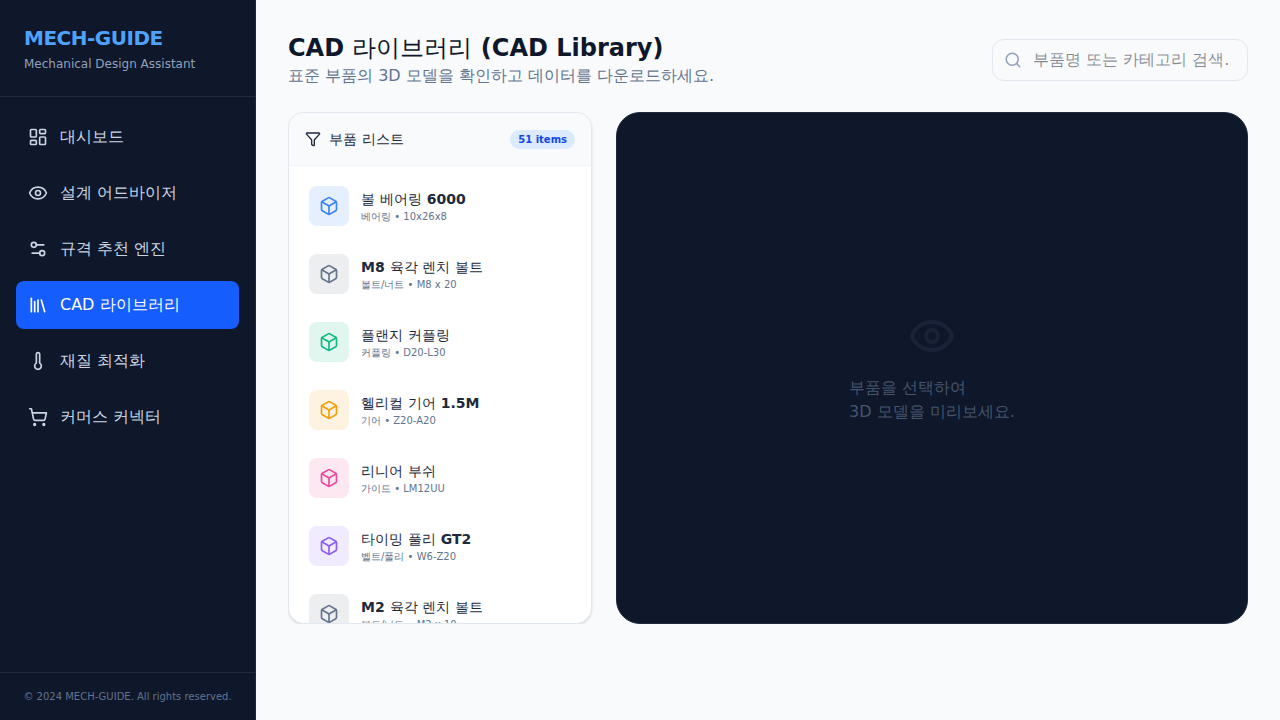
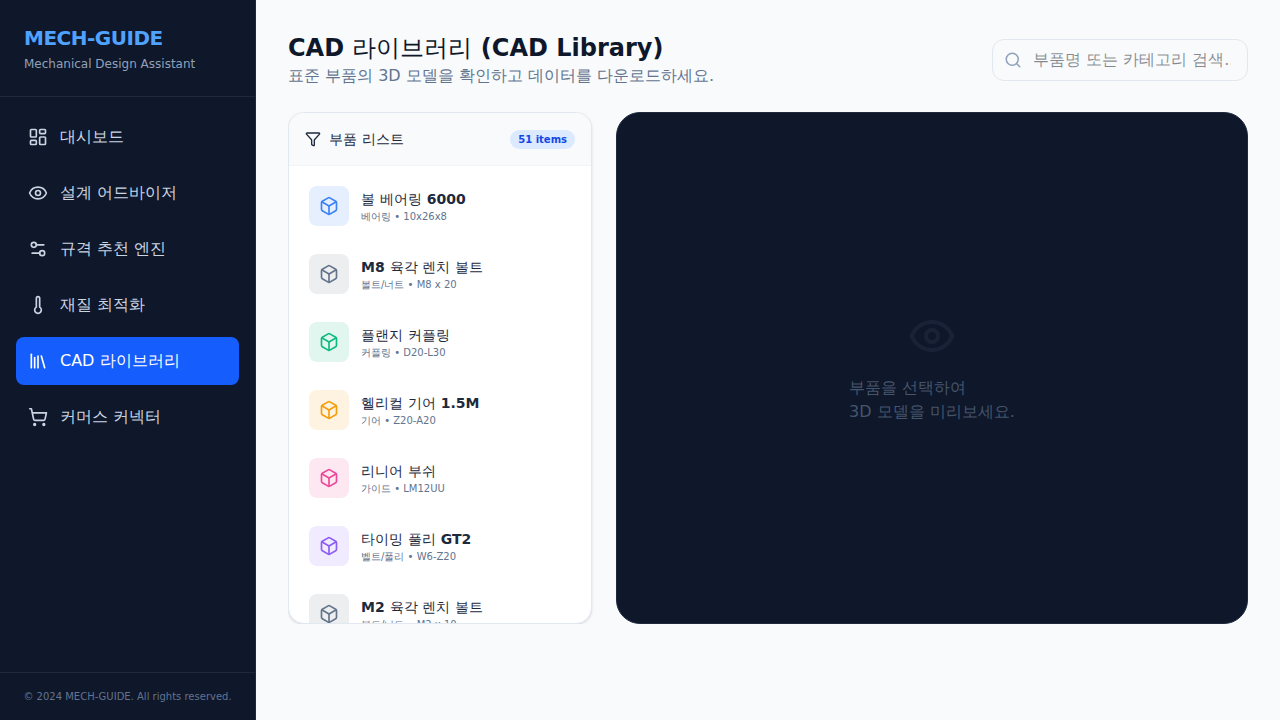
feat: add quantity adjustment and reorder sidebar
- Add `updateQuantity` to `CartContext`
- Update `CommerceConnector` UI to include +/- buttons for quantity adjustment
- Adjust sidebar navigation order to match user request
- Fix quantity text color visibility

Changed region(s): [[0.0, 0.3667, 0.1875, 0.55]]

diff --git a/src/pages/CommerceConnector.tsx b/src/pages/CommerceConnector.tsx
@@ -1,10 +1,10 @@
 import React, { useState } from 'react';
-import { ExternalLink, Package, ArrowRight, Search, Trash2 } from 'lucide-react';
+import { ExternalLink, Package, ArrowRight, Search, Trash2, Plus, Minus } from 'lucide-react';
 import { useCart } from '../context/CartContext';
 
 const CommerceConnector: React.FC = () => {
   const [searchQuery, setSearchQuery] = useState('');
-  const { cartItems, addToCart, removeFromCart } = useCart();
+  const { cartItems, addToCart, removeFromCart, updateQuantity } = useCart();
 
   const allParts = [
     { id: 1, name: '볼 베어링 6000', spec: '10x26x8', qty: 4, price: 1200, supplier: '한국미스미' },
@@ -97,9 +97,26 @@ const CommerceConnector: React.FC = () => {
                     </div>
                   </div>
                   <div className="flex items-center space-x-4">
-                    <div className="text-right">
+                    <div className="flex items-center space-x-2 mr-4 bg-slate-50 border border-slate-200 rounded-lg p-1">
+                      <button
+                        onClick={() => updateQuantity(item.id, item.qty - 1)}
+                        className="p-1 text-slate-400 hover:text-slate-700 hover:bg-slate-200 rounded transition-colors"
+                        aria-label="감소"
+                        disabled={item.qty <= 1}
+                      >
+                        <Minus size={14} />
+                      </button>
+                      <span className="text-sm font-medium w-6 text-center text-slate-900">{item.qty}</span>
+                      <button
+                        onClick={() => updateQuantity(item.id, item.qty + 1)}
+                        className="p-1 text-slate-400 hover:text-slate-700 hover:bg-slate-200 rounded transition-colors"
+                        aria-label="증가"
+                      >
+                        <Plus size={14} />
+                      </button>
+                    </div>
+                    <div className="text-right w-24">
                       <p className="text-sm font-bold text-slate-900">₩{(item.price * item.qty).toLocaleString()}</p>
-                      <p className="text-xs text-slate-400">수량: {item.qty}</p>
                     </div>
                     <button
                       onClick={() => removeFromCart(item.id)}

diff --git a/src/context/CartContext.tsx b/src/context/CartContext.tsx
@@ -14,6 +14,7 @@ interface CartContextType {
   cartItems: Part[];
   addToCart: (part: Part) => void;
   removeFromCart: (id: number) => void;
+  updateQuantity: (id: number, quantity: number) => void;
 }
 
 const CartContext = createContext<CartContextType | undefined>(undefined);
@@ -41,8 +42,14 @@ export const CartProvider: React.FC<{ children: ReactNode }> = ({ children }) =>
     setCartItems(prev => prev.filter(item => item.id !== id));
   };
 
+  const updateQuantity = (id: number, quantity: number) => {
+    setCartItems(prev => prev.map(item =>
+      item.id === id ? { ...item, qty: Math.max(1, quantity) } : item
+    ));
+  };
+
   return (
-    <CartContext.Provider value={{ cartItems, addToCart, removeFromCart }}>
+    <CartContext.Provider value={{ cartItems, addToCart, removeFromCart, updateQuantity }}>
       {children}
     </CartContext.Provider>
   );

diff --git a/src/components/Sidebar.tsx b/src/components/Sidebar.tsx
@@ -14,8 +14,8 @@ const Sidebar: React.FC = () => {
     { to: '/', icon: <LayoutDashboard size={20} />, label: '대시보드' },
     { to: '/visual-advisor', icon: <Eye size={20} />, label: '설계 어드바이저' },
     { to: '/selection-engine', icon: <Settings2 size={20} />, label: '규격 추천 엔진' },
-    { to: '/cad-library', icon: <Library size={20} />, label: 'CAD 라이브러리' },
     { to: '/material-optimizer', icon: <Thermometer size={20} />, label: '재질 최적화' },
+    { to: '/cad-library', icon: <Library size={20} />, label: 'CAD 라이브러리' },
     { to: '/commerce-connector', icon: <ShoppingCart size={20} />, label: '커머스 커넥터' },
   ];
 
